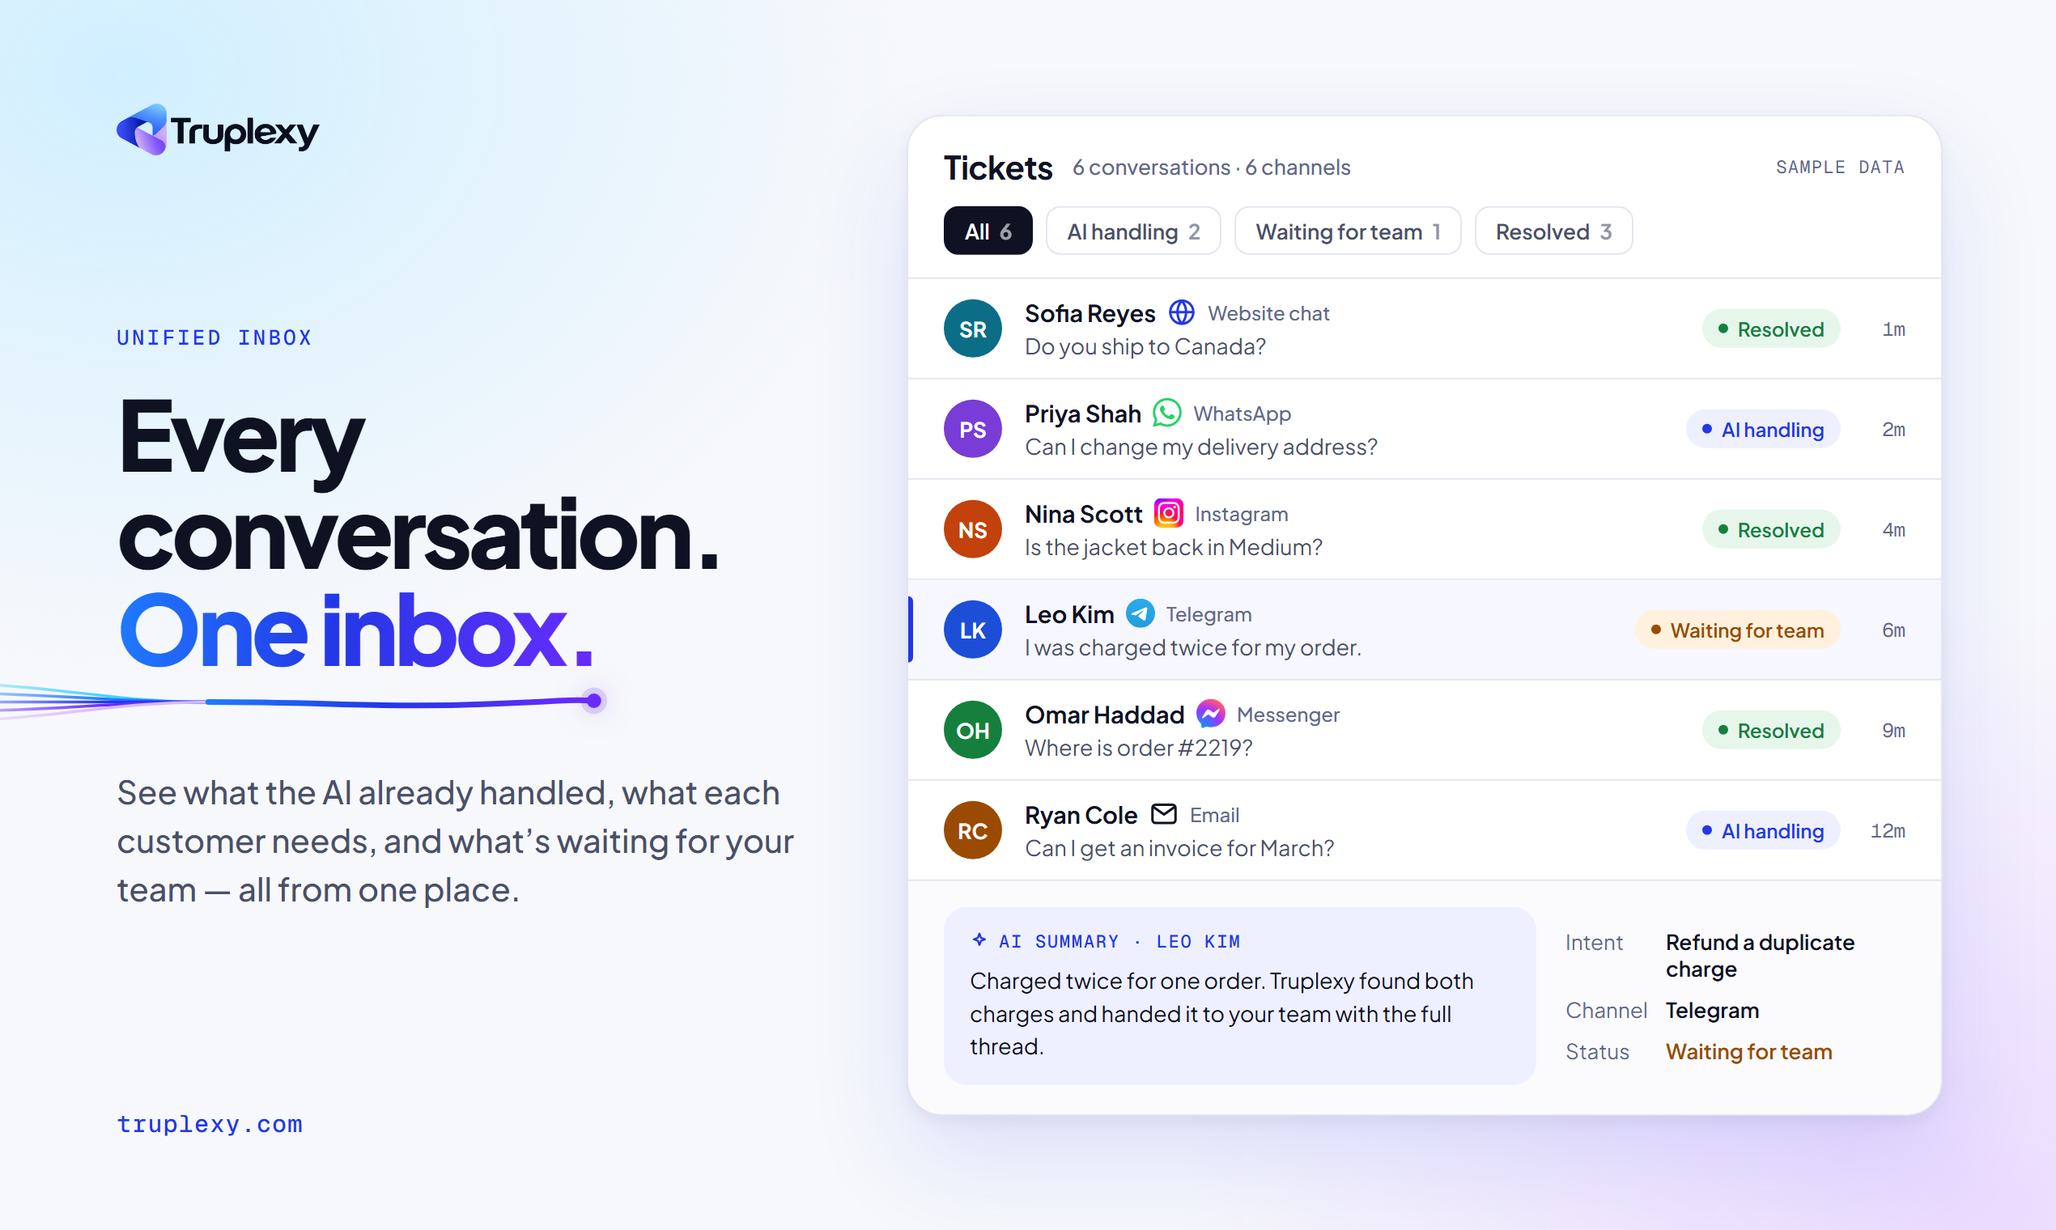
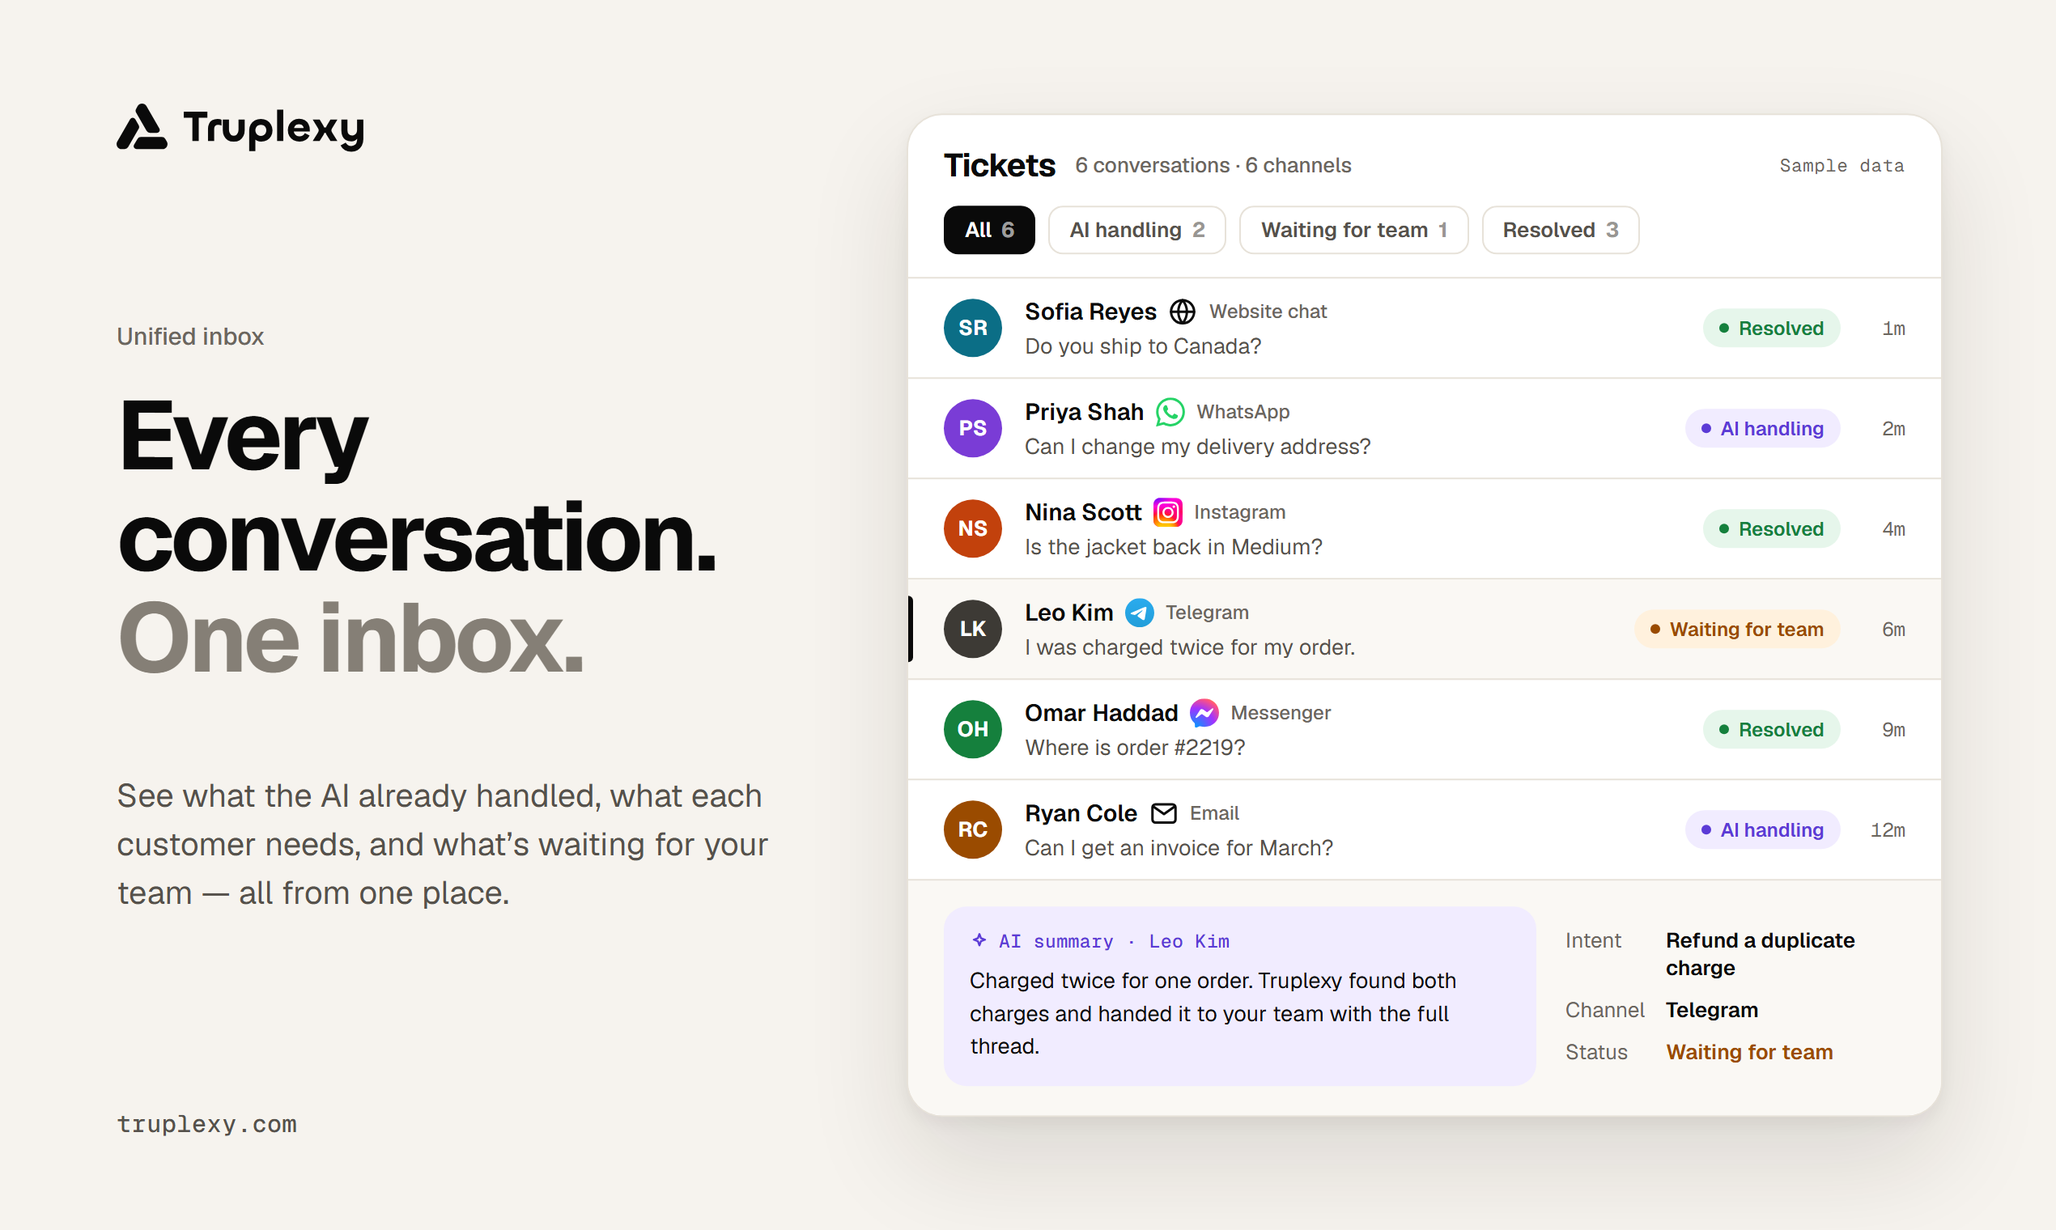
Product Hunt gallery: Soft Triplex look
The two gallery images now match the site:
- cream ground, Geist type and the Soft Triplex logo
- second headline line in the flat second tone; the gradient and
  braided thread are removed
- plain eyebrow, black accent and the site's AI status colour
- Bubbly as the assistant's avatar
- no blue avatar

diff --git a/marketing/product-hunt/gallery-1-inbox.html b/marketing/product-hunt/gallery-1-inbox.html
@@ -40,18 +40,18 @@
 
       .rows { flex: none; }
       .row { position: relative; display: grid; grid-template-columns: 36px 1fr auto; align-items: center; gap: 14px; height: 62px; padding: 0 22px; border-bottom: 1px solid var(--line); }
-      .row.sel { background: #f6f7ff; }
+      .row.sel { background: var(--tint); }
       .row.sel::before { content: ''; position: absolute; left: 0; top: 10px; bottom: 10px; width: 3px; border-radius: 0 3px 3px 0; background: var(--accent); }
       .who { min-width: 0; }
-      .who .top { display: flex; align-items: center; gap: 7px; font-size: 14.5px; font-weight: 650; }
+      .who .top { display: flex; align-items: center; gap: 7px; font-size: 14.5px; font-weight: 600; }
       .who .ch { font-size: 12px; font-weight: 500; color: var(--ink-faint); }
       .who .msg { margin-top: 3px; font-size: 13.5px; color: var(--ink-muted); white-space: nowrap; overflow: hidden; text-overflow: ellipsis; }
       .meta { display: flex; align-items: center; gap: 12px; }
       .meta time { font-family: 'Geist Mono', monospace; font-size: 12px; color: var(--ink-faint); width: 28px; text-align: right; }
 
-      .detail { padding: 16px 22px 18px; background: #fbfbfe; display: grid; grid-template-columns: 1fr 210px; gap: 18px; align-items: center; }
-      .summary { padding: 14px 16px; border-radius: 14px; background: var(--accent-soft); }
-      .summary .label { display: flex; align-items: center; gap: 6px; font-family: 'Geist Mono', monospace; font-size: 11px; font-weight: 500; letter-spacing: 0.08em; text-transform: uppercase; color: var(--accent); }
+      .detail { padding: 16px 22px 18px; background: var(--tint); display: grid; grid-template-columns: 1fr 210px; gap: 18px; align-items: center; }
+      .summary { padding: 14px 16px; border-radius: 14px; background: var(--ai-soft); }
+      .summary .label { display: flex; align-items: center; gap: 6px; font-family: 'Geist Mono', monospace; font-size: 11.5px; font-weight: 500; letter-spacing: 0.02em; color: var(--ai); }
       .summary p { margin-top: 7px; font-size: 13.5px; line-height: 1.5; color: var(--ink); }
       .props { display: grid; grid-template-columns: 62px 1fr; row-gap: 9px; align-content: center; font-size: 13px; }
       .props dt { color: var(--ink-faint); }
@@ -60,29 +60,11 @@
   </head>
   <body>
     <section class="copy">
-      <img class="wordmark" src="../../src/assets/brand/wordmark-dark.png" alt="Truplexy" />
+      <img class="wordmark" src="../../logo/soft-triplex/logo-black.svg" alt="Truplexy" />
       <p class="eyebrow">Unified inbox</p>
       <h1 class="headline">
         Every<br />conversation.<br />
-        <span class="one">
-          <span class="one-text">One inbox.</span>
-          <svg class="one-thread" viewBox="0 0 640 60" preserveAspectRatio="none" aria-hidden="true">
-            <defs>
-              <linearGradient id="m" gradientUnits="userSpaceOnUse" x1="270" y1="0" x2="632" y2="0"><stop offset="0" stop-color="#1f7bff" /><stop offset="0.45" stop-color="#2338e6" /><stop offset="1" stop-color="#6a2bff" /></linearGradient>
-              <linearGradient id="f" gradientUnits="userSpaceOnUse" x1="0" y1="0" x2="170" y2="0"><stop offset="0" stop-color="#fff" stop-opacity="0" /><stop offset="1" stop-color="#fff" /></linearGradient>
-              <mask id="k" maskUnits="userSpaceOnUse" x="0" y="-10" width="640" height="80"><rect x="0" y="-10" width="640" height="80" fill="url(#f)" /></mask>
-            </defs>
-            <g mask="url(#k)">
-              <path class="strand" d="M0 4 C 120 4, 170 30, 272 30" stroke="#45d4ff" />
-              <path class="strand" d="M0 17 C 120 17, 170 30, 272 30" stroke="#1f7bff" />
-              <path class="strand" d="M0 30 C 120 30, 170 30, 272 30" stroke="#2338e6" />
-              <path class="strand" d="M0 43 C 120 43, 170 30, 272 30" stroke="#6a2bff" />
-              <path class="strand" d="M0 56 C 120 56, 170 30, 272 30" stroke="#d9b8ff" />
-            </g>
-            <path class="merged" d="M270 30 C 380 30, 440 38, 530 33 S 610 26, 632 28" stroke="url(#m)" />
-          </svg>
-          <span class="one-node"></span>
-        </span>
+        <span class="tone-2">One inbox.</span>
       </h1>
       <p class="lede">See what the AI already handled, what each customer needs, and what’s waiting for your team — all from one place.</p>
       <p class="url">truplexy.com</p>
@@ -105,7 +87,7 @@
         <div class="row">
           <span class="avatar" style="background:#0b6e86">SR</span>
           <div class="who">
-            <div class="top">Sofia Reyes <svg class="glyph" viewBox="0 0 24 24" fill="none" stroke="#2338e6" stroke-width="2" stroke-linecap="round" stroke-linejoin="round"><circle cx="12" cy="12" r="9.5"/><path d="M2.5 12h19M12 2.5a14.5 14.5 0 0 1 0 19M12 2.5a14.5 14.5 0 0 0 0 19"/></svg><span class="ch">Website chat</span></div>
+            <div class="top">Sofia Reyes <svg class="glyph" viewBox="0 0 24 24" fill="none" stroke="#0a0a0a" stroke-width="2" stroke-linecap="round" stroke-linejoin="round"><circle cx="12" cy="12" r="9.5"/><path d="M2.5 12h19M12 2.5a14.5 14.5 0 0 1 0 19M12 2.5a14.5 14.5 0 0 0 0 19"/></svg><span class="ch">Website chat</span></div>
             <div class="msg">Do you ship to Canada?</div>
           </div>
           <div class="meta"><span class="badge resolved">Resolved</span><time>1m</time></div>
@@ -127,7 +109,7 @@
           <div class="meta"><span class="badge resolved">Resolved</span><time>4m</time></div>
         </div>
         <div class="row sel">
-          <span class="avatar" style="background:#1d4ed8">LK</span>
+          <span class="avatar" style="background:#3d3a35">LK</span>
           <div class="who">
             <div class="top">Leo Kim <img class="glyph" src="../../public/brands/telegram.svg" alt="" /><span class="ch">Telegram</span></div>
             <div class="msg">I was charged twice for my order.</div>
@@ -145,7 +127,7 @@
         <div class="row">
           <span class="avatar" style="background:#9a4b00">RC</span>
           <div class="who">
-            <div class="top">Ryan Cole <svg class="glyph" viewBox="0 0 24 24" fill="none" stroke="#0e1222" stroke-width="2" stroke-linecap="round" stroke-linejoin="round"><rect x="2.5" y="4.5" width="19" height="15" rx="2.5"/><path d="m3.5 6.5 8.5 6 8.5-6"/></svg><span class="ch">Email</span></div>
+            <div class="top">Ryan Cole <svg class="glyph" viewBox="0 0 24 24" fill="none" stroke="#0a0a0a" stroke-width="2" stroke-linecap="round" stroke-linejoin="round"><rect x="2.5" y="4.5" width="19" height="15" rx="2.5"/><path d="m3.5 6.5 8.5 6 8.5-6"/></svg><span class="ch">Email</span></div>
             <div class="msg">Can I get an invoice for March?</div>
           </div>
           <div class="meta"><span class="badge ai">AI handling</span><time>12m</time></div>

diff --git a/marketing/product-hunt/gallery-2-handoff.html b/marketing/product-hunt/gallery-2-handoff.html
@@ -20,16 +20,16 @@
       .head .online::before { content: ''; width: 7px; height: 7px; border-radius: 50%; background: #22c55e; box-shadow: 0 0 0 3px rgb(34 197 94 / 0.18); }
       .head .clock { margin-left: auto; font-family: 'Geist Mono', monospace; font-size: 12px; color: var(--ink-faint); text-align: right; line-height: 1.4; }
 
-      .thread { display: flex; flex-direction: column; gap: 10px; padding: 18px 18px 16px; background: #fbfbfe; }
+      .thread { display: flex; flex-direction: column; gap: 10px; padding: 18px 18px 16px; background: var(--tint); }
       .msg { max-width: 82%; padding: 10px 14px; border-radius: 18px; font-size: 14px; line-height: 1.45; }
       .msg.customer { align-self: flex-end; background: var(--accent); color: #fff; border-bottom-right-radius: 6px; }
       .ai-row, .agent-row { display: flex; align-items: flex-end; gap: 8px; }
-      .ai-row .av { width: 28px; height: 28px; border-radius: 50%; display: grid; place-items: center; background: #fff; border: 1px solid var(--line); flex: none; }
-      .ai-row .av img { width: 16px; height: auto; display: block; }
-      .msg.ai { background: #fff; border: 1px solid var(--line); border-bottom-left-radius: 6px; box-shadow: 0 2px 8px rgb(14 18 34 / 0.04); }
+      .ai-row .av { width: 28px; height: 28px; flex: none; }
+      .ai-row .av img { width: 28px; height: 28px; display: block; }
+      .msg.ai { background: #fff; border: 1px solid var(--line); border-bottom-left-radius: 6px; box-shadow: 0 2px 8px rgb(30 24 16 / 0.04); }
       .msg.agent { background: var(--human-soft); border-bottom-left-radius: 6px; }
       .msg .author { display: block; font-size: 11.5px; font-weight: 700; color: var(--human); margin-bottom: 2px; }
-      .source { display: inline-flex; align-items: center; gap: 6px; margin: -2px 0 0 36px; height: 26px; padding: 0 10px; border-radius: 8px; font-size: 12px; font-weight: 600; color: var(--accent); background: var(--accent-soft); align-self: flex-start; }
+      .source { display: inline-flex; align-items: center; gap: 6px; margin: -2px 0 0 36px; height: 26px; padding: 0 10px; border-radius: 8px; font-size: 12px; font-weight: 600; color: var(--ink-muted); background: var(--surface-2); align-self: flex-start; }
       .event { align-self: center; display: inline-flex; align-items: center; gap: 7px; height: 28px; padding: 0 12px; border-radius: 999px; font-size: 12px; font-weight: 600; color: var(--human); background: #fff; border: 1px solid #f3d9b5; }
       .agent-row .av { width: 28px; height: 28px; border-radius: 50%; display: grid; place-items: center; background: #0b6e86; color: #fff; font-size: 11px; font-weight: 700; flex: none; }
 
@@ -39,7 +39,7 @@
 
       .packet { position: absolute; left: 452px; top: 470px; width: 262px; padding: 16px 16px 14px; border-radius: 18px; background: #fff; border: 1px solid var(--line); box-shadow: var(--shadow-lg); }
       .packet .top { display: flex; align-items: center; justify-content: space-between; }
-      .packet .title { font-family: 'Geist Mono', monospace; font-size: 11px; font-weight: 500; letter-spacing: 0.08em; text-transform: uppercase; color: var(--ink-faint); }
+      .packet .title { font-family: 'Geist Mono', monospace; font-size: 12px; font-weight: 500; color: var(--ink-faint); }
       .packet dl { margin-top: 12px; display: grid; grid-template-columns: 70px 1fr; row-gap: 8px; font-size: 12.5px; }
       .packet dt { color: var(--ink-faint); }
       .packet dd { font-weight: 600; }
@@ -70,7 +70,7 @@
       <div class="thread">
         <p class="msg customer">What’s your return policy?</p>
         <div class="ai-row">
-          <span class="av"><img src="../../src/assets/brand/mark.png" alt="" /></span>
+          <span class="av"><img src="../../src/assets/brand/bubbly-avatar.png" alt="" /></span>
           <p class="msg ai">You have 30 days from delivery to return anything unworn with the tags on. Returns are free anywhere in the US.</p>
         </div>
         <span class="source">
@@ -79,7 +79,7 @@
         </span>
         <p class="msg customer">I need help with a special refund request.</p>
         <div class="ai-row">
-          <span class="av"><img src="../../src/assets/brand/mark.png" alt="" /></span>
+          <span class="av"><img src="../../src/assets/brand/bubbly-avatar.png" alt="" /></span>
           <p class="msg ai">Let me connect you with our support team.</p>
         </div>
         <span class="event">
@@ -110,29 +110,11 @@
     </aside>
 
     <section class="copy">
-      <img class="wordmark" src="../../src/assets/brand/wordmark-dark.png" alt="Truplexy" />
+      <img class="wordmark" src="../../logo/soft-triplex/logo-black.svg" alt="Truplexy" />
       <p class="eyebrow">Answers + human handoff</p>
       <h1 class="headline">
         No repeating.<br />No starting over.<br />
-        <span class="one">
-          <span class="one-text">Just real help.</span>
-          <svg class="one-thread" viewBox="0 0 640 60" preserveAspectRatio="none" aria-hidden="true">
-            <defs>
-              <linearGradient id="m" gradientUnits="userSpaceOnUse" x1="270" y1="0" x2="632" y2="0"><stop offset="0" stop-color="#1f7bff" /><stop offset="0.45" stop-color="#2338e6" /><stop offset="1" stop-color="#6a2bff" /></linearGradient>
-              <linearGradient id="f" gradientUnits="userSpaceOnUse" x1="0" y1="0" x2="170" y2="0"><stop offset="0" stop-color="#fff" stop-opacity="0" /><stop offset="1" stop-color="#fff" /></linearGradient>
-              <mask id="k" maskUnits="userSpaceOnUse" x="0" y="-10" width="640" height="80"><rect x="0" y="-10" width="640" height="80" fill="url(#f)" /></mask>
-            </defs>
-            <g mask="url(#k)">
-              <path class="strand" d="M0 4 C 120 4, 170 30, 272 30" stroke="#45d4ff" />
-              <path class="strand" d="M0 17 C 120 17, 170 30, 272 30" stroke="#1f7bff" />
-              <path class="strand" d="M0 30 C 120 30, 170 30, 272 30" stroke="#2338e6" />
-              <path class="strand" d="M0 43 C 120 43, 170 30, 272 30" stroke="#6a2bff" />
-              <path class="strand" d="M0 56 C 120 56, 170 30, 272 30" stroke="#d9b8ff" />
-            </g>
-            <path class="merged" d="M270 30 C 380 30, 440 38, 530 33 S 610 26, 632 28" stroke="url(#m)" />
-          </svg>
-          <span class="one-node"></span>
-        </span>
+        <span class="tone-2">Just real help.</span>
       </h1>
       <p class="lede">Answers from your own knowledge, with the source right there, 24/7. When a human touch matters, your team steps in with the conversation and context already there.</p>
       <p class="url">truplexy.com</p>

diff --git a/marketing/product-hunt/shared.css b/marketing/product-hunt/shared.css
@@ -1,9 +1,10 @@
 /* Shared by the Product Hunt gallery images (1270×760). Tokens are the
-   site's (src/styles/tokens.css); type is the site's own fonts. */
+   site's (src/styles/tokens.css): Soft Triplex, monochrome ink on cream with
+   no gradients; type is the site's own fonts. */
 @font-face {
-  font-family: 'Plus Jakarta Sans';
-  font-weight: 200 800;
-  src: url('../../node_modules/@fontsource-variable/plus-jakarta-sans/files/plus-jakarta-sans-latin-wght-normal.woff2') format('woff2');
+  font-family: 'Geist';
+  font-weight: 100 900;
+  src: url('../../node_modules/@fontsource-variable/geist/files/geist-latin-wght-normal.woff2') format('woff2');
 }
 @font-face {
   font-family: 'Geist Mono';
@@ -12,22 +13,26 @@
 }
 
 :root {
-  --ink: #0e1222;
-  --ink-muted: #4a5068;
-  --ink-faint: #61688a;
-  --line: #e3e6f0;
-  --line-strong: #cbd0e0;
+  --paper: #f6f3ee;
+  --ink: #0a0a0a;
+  --ink-muted: #55514b;
+  --ink-faint: #6b665e;
+  --tone-2: #857f76;
+  --line: #e7e2d9;
+  --line-strong: #d4cdc1;
   --surface: #ffffff;
-  --surface-2: #f1f3fa;
-  --accent: #2338e6;
-  --accent-soft: #eef0ff;
+  --surface-2: #f3efe8;
+  --tint: #faf8f4;
+  --accent: #0a0a0a;
+  --accent-soft: #f0ece5;
+  --ai: #5b3bd6;
+  --ai-soft: #f1ecff;
   --live: #15803d;
   --live-soft: #e6f6eb;
   --human: #9a4b00;
   --human-soft: #fff1dd;
-  --gradient-text: linear-gradient(95deg, #1f7bff 0%, #2338e6 45%, #6a2bff 100%);
-  --shadow-lg: 0 4px 10px rgb(14 18 34 / 0.05), 0 28px 64px rgb(35 56 230 / 0.12);
-  --shadow-md: 0 2px 4px rgb(14 18 34 / 0.04), 0 14px 32px rgb(35 56 230 / 0.09);
+  --shadow-lg: 0 4px 10px rgb(30 24 16 / 0.05), 0 28px 64px rgb(30 24 16 / 0.12);
+  --shadow-md: 0 2px 4px rgb(30 24 16 / 0.04), 0 12px 32px rgb(30 24 16 / 0.08);
 }
 
 * { box-sizing: border-box; margin: 0; padding: 0; }
@@ -36,76 +41,38 @@ html, body { width: 1270px; height: 760px; overflow: hidden; }
 
 body {
   position: relative;
-  font-family: 'Plus Jakarta Sans', 'Segoe UI', sans-serif;
+  font-family: 'Geist', 'Segoe UI', sans-serif;
   color: var(--ink);
-  background:
-    radial-gradient(55% 70% at 6% 6%, rgb(207 239 255 / 0.95), transparent 70%),
-    radial-gradient(55% 70% at 96% 98%, rgb(234 217 255 / 0.95), transparent 70%),
-    #f7f8fc;
+  background: var(--paper);
   -webkit-font-smoothing: antialiased;
 }
 
 .mono { font-family: 'Geist Mono', monospace; }
 
-.wordmark { height: 32px; width: auto; display: block; }
+.wordmark { height: 30px; width: auto; display: block; }
 
 .eyebrow {
-  font-family: 'Geist Mono', monospace;
-  font-size: 13px;
+  font-size: 15px;
   font-weight: 500;
-  letter-spacing: 0.12em;
-  text-transform: uppercase;
-  color: var(--accent);
+  color: var(--ink-faint);
 }
 
 .headline {
   font-size: 60px;
-  line-height: 1;
-  font-weight: 800;
-  letter-spacing: -0.045em;
+  line-height: 1.04;
+  font-weight: 700;
+  letter-spacing: -0.035em;
 }
 
 .lede {
   font-size: 20px;
   line-height: 1.5;
-  font-weight: 500;
+  font-weight: 400;
   color: var(--ink-muted);
 }
 
-/* "One …" in the brand gradient, with the hero's braided thread under it. */
-.one { position: relative; display: inline-block; }
-.one-text {
-  display: inline-block;
-  padding-bottom: 0.08em;
-  background: var(--gradient-text);
-  -webkit-background-clip: text;
-  background-clip: text;
-  color: transparent;
-}
-.one-thread {
-  position: absolute;
-  left: -40%;
-  width: 140%;
-  top: calc(100% - 0.03em);
-  height: 0.46em;
-  overflow: visible;
-  fill: none;
-  stroke-linecap: round;
-}
-.one-thread path { vector-effect: non-scaling-stroke; }
-.one-thread .strand { stroke-width: 1.75; }
-.one-thread .merged { stroke-width: 3.5; }
-.one-node {
-  position: absolute;
-  right: 0;
-  top: calc(100% - 0.03em + 0.46em * 28 / 60);
-  width: 0.15em;
-  height: 0.15em;
-  border-radius: 50%;
-  background: #6a2bff;
-  box-shadow: 0 0 0 0.06em rgb(106 43 255 / 0.18), 0 0 0.3em rgb(106 43 255 / 0.55);
-  transform: translate(10%, -50%);
-}
+/* The last line in the site's second tone, as in the hero. */
+.tone-2 { color: var(--tone-2); }
 
 .window {
   background: var(--surface);
@@ -127,7 +94,7 @@ body {
   white-space: nowrap;
 }
 .badge::before { content: ''; width: 6px; height: 6px; border-radius: 50%; background: currentColor; }
-.badge.ai { color: var(--accent); background: var(--accent-soft); }
+.badge.ai { color: var(--ai); background: var(--ai-soft); }
 .badge.resolved { color: var(--live); background: var(--live-soft); }
 .badge.human { color: var(--human); background: var(--human-soft); }
 
@@ -153,8 +120,7 @@ body {
 .sample {
   font-family: 'Geist Mono', monospace;
   font-size: 11px;
-  letter-spacing: 0.06em;
-  text-transform: uppercase;
+  letter-spacing: 0.04em;
   color: var(--ink-faint);
 }
 
@@ -162,6 +128,6 @@ body {
   font-family: 'Geist Mono', monospace;
   font-size: 15px;
   font-weight: 500;
-  letter-spacing: 0.04em;
-  color: var(--accent);
+  letter-spacing: 0.02em;
+  color: var(--ink-muted);
 }
